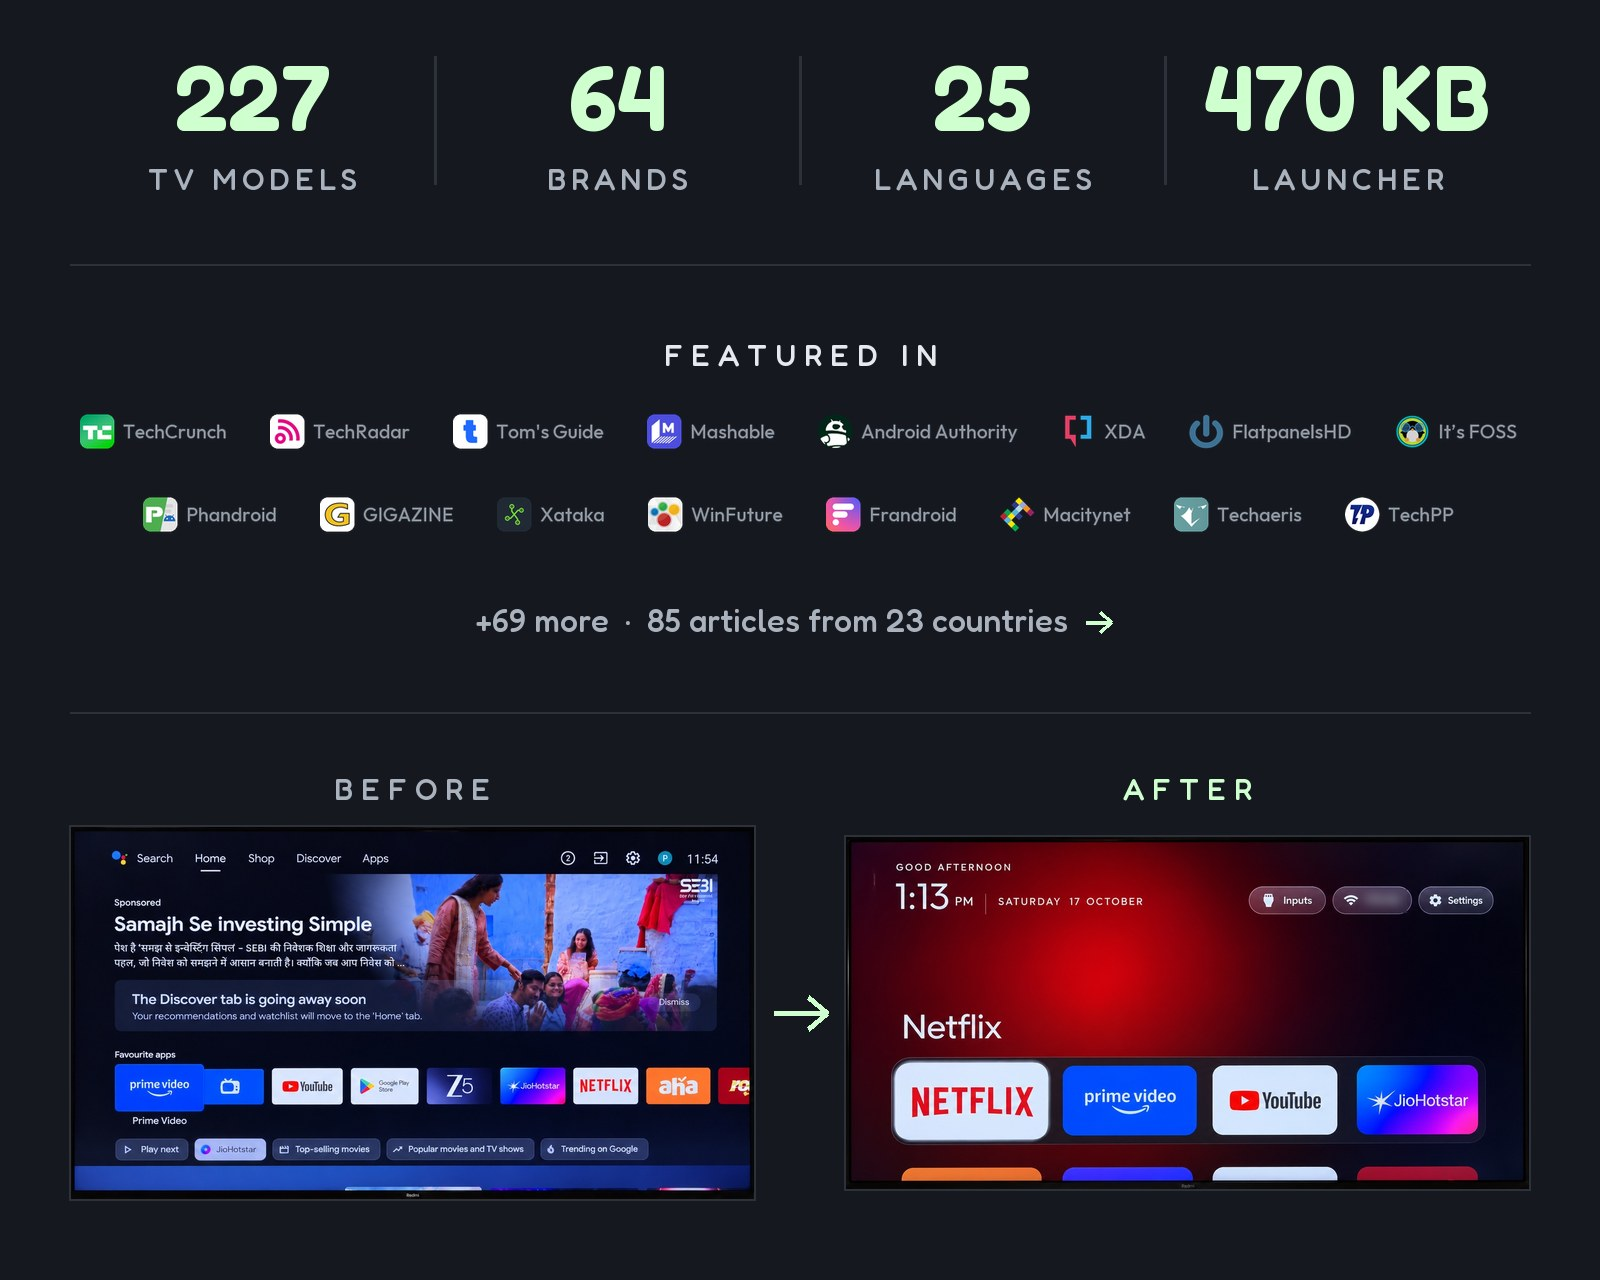
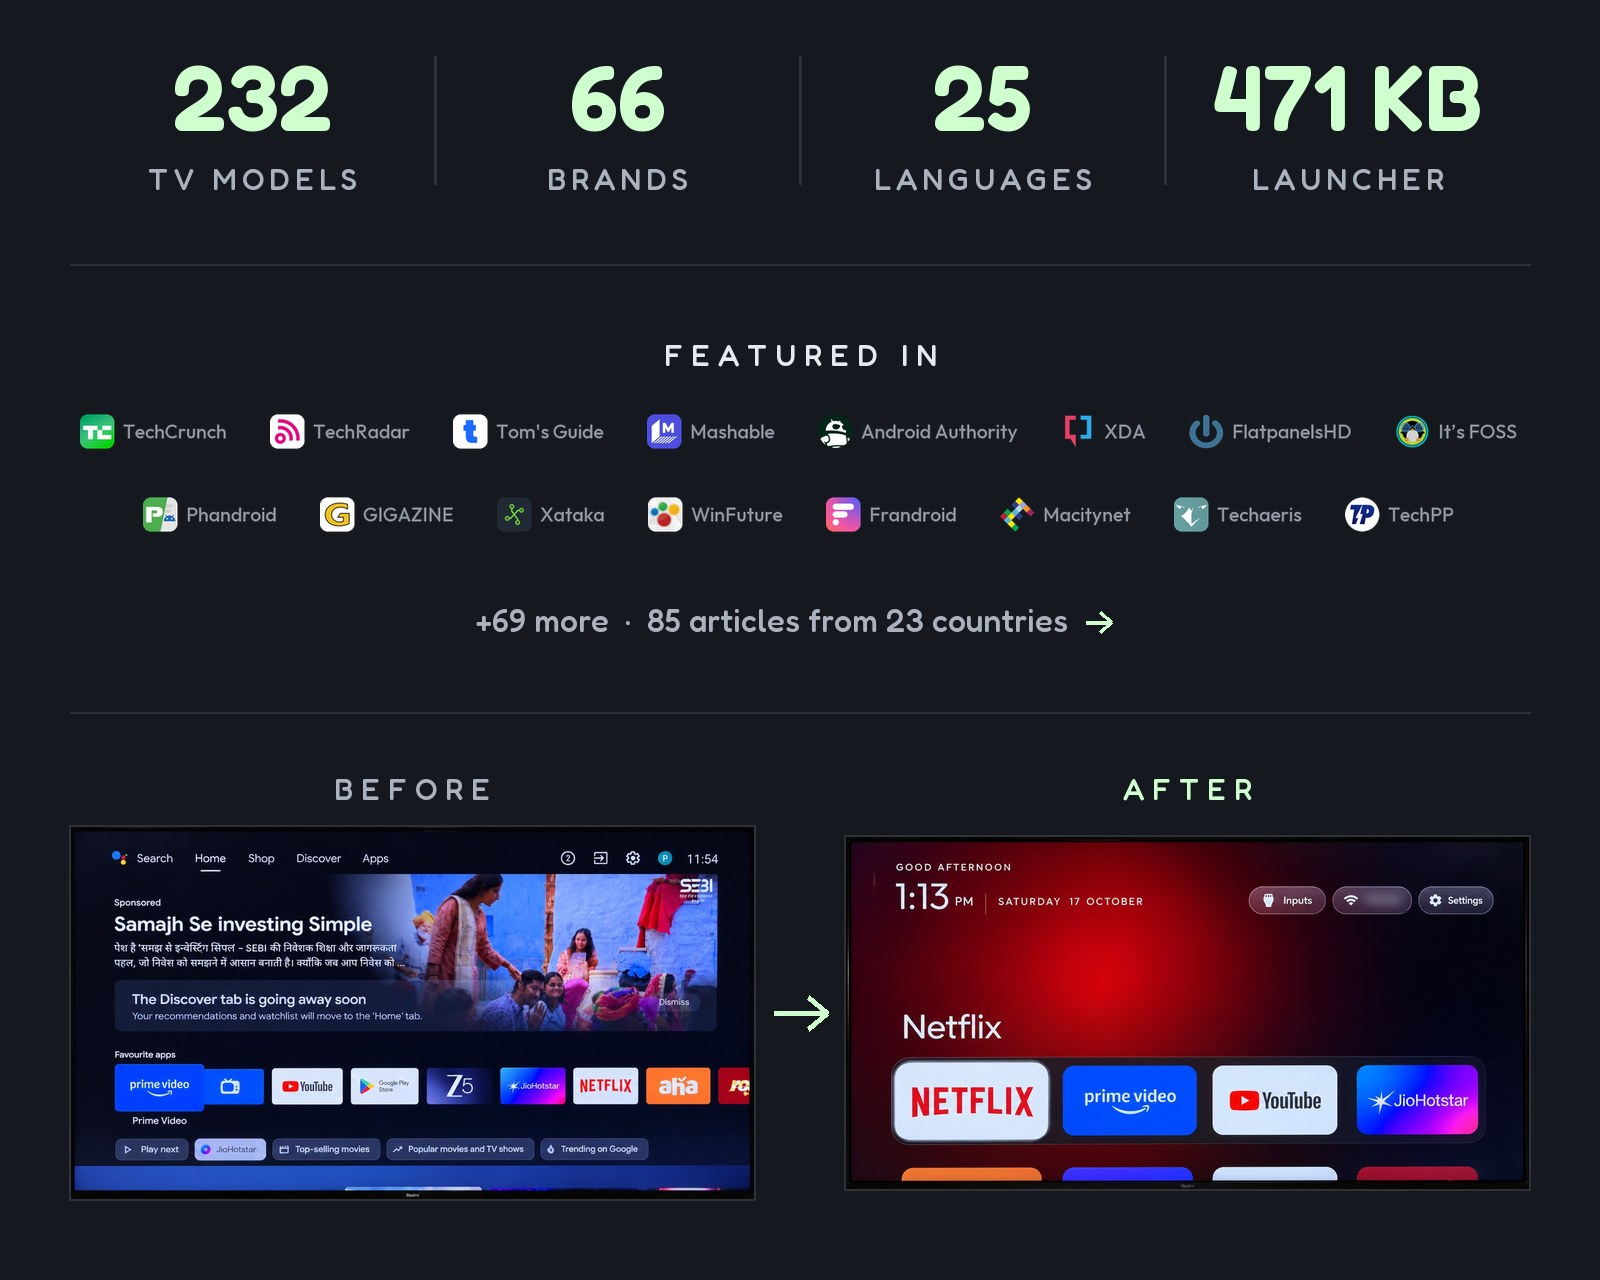
README: counts and card after Round Q (232 TV models, 66 brands, 471 KB launcher)
New brand: Grundig.

Changed region(s): [[0.75, 0.0312, 0.9375, 0.125], [0.125, 0.0625, 0.2188, 0.125], [0.375, 0.0312, 0.4375, 0.125]]

diff --git a/tools/readme_stats.py b/tools/readme_stats.py
@@ -5,7 +5,7 @@ and rebuild the card with tools/readme_card.py. Fredoka is the variable TTF from
 import sys
 from PIL import Image, ImageDraw, ImageFont
 FONT, OUT = sys.argv[1], sys.argv[2]
-STATS = [("227", "TV MODELS"), ("64", "BRANDS"), ("25", "LANGUAGES"), ("470 KB", "LAUNCHER")]
+STATS = [("232", "TV MODELS"), ("66", "BRANDS"), ("25", "LANGUAGES"), ("471 KB", "LAUNCHER")]
 W, H = 1600, 240
 img = Image.new("RGB", (W, H), "#15181e"); d = ImageDraw.Draw(img)
 def f(size, wt):

diff --git a/README.md b/README.md
@@ -18,7 +18,7 @@
 </p>
 
 <p align="center">
-  <a href="docs/PRESS.md"><img src="docs/card.jpg" alt="227 TV models · 64 brands · 25 languages · 470 KB launcher. Featured in TechCrunch, TechRadar, Tom's Guide, Mashable, Android Authority, XDA, FlatpanelsHD, It's FOSS, Phandroid, GIGAZINE, Xataka, WinFuture, Frandroid, Macitynet, Techaeris, TechPP and 69 more: 85 articles from 23 countries. Before: stock Google TV home with a sponsored ad. After: the Clean Your TV launcher." width="800"></a>
+  <a href="docs/PRESS.md"><img src="docs/card.jpg" alt="232 TV models · 66 brands · 25 languages · 471 KB launcher. Featured in TechCrunch, TechRadar, Tom's Guide, Mashable, Android Authority, XDA, FlatpanelsHD, It's FOSS, Phandroid, GIGAZINE, Xataka, WinFuture, Frandroid, Macitynet, Techaeris, TechPP and 69 more: 85 articles from 23 countries. Before: stock Google TV home with a sponsored ad. After: the Clean Your TV launcher." width="800"></a>
 </p>
 
 **The viral tweet:** [x.com/gathint/status/2111379569030939102](https://x.com/gathint/status/2111379569030939102)
@@ -102,11 +102,11 @@ Anything running **Android TV** or **Google TV**.
 
 Tested lists from contributors, one folder per model in [`examples/`](examples/):
 
-**TCL** 55 · **Xiaomi** 27 · **Sony** 26 · **Philips** 12 · **Hisense** 9 · **Skyworth** 9 · **Amazon Fire TV** 7 ·
+**TCL** 55 · **Sony** 28 · **Xiaomi** 27 · **Philips** 12 · **Hisense** 9 · **Skyworth** 9 · **Amazon Fire TV** 7 ·
 **Thomson** 4 · **BenQ** 3 · **Google** 3 · **Panasonic** 3 · **CHiQ** 2 · **FFalcon** 2 · **Haier** 2 · **Hitachi** 2 ·
 **Kalley** 2 · **Nokia** 2 · **NVIDIA Shield** 2 · **OnePlus** 2 · **onn** 2 · **Redmi** 2 · **Toshiba** 2 · **Vu** 2 ·
-AiPro2K · AIWA · Artel · Caxium · Cecotec · Challenger · Compac · Dialog · EKO · Freebox · Insignia Fire TV · JVC ·
-Karbonn · Kogan · Motorola · MTC · Noblex · OK. · PEAQ · Polytron · PRISM+ · RCA · Sankey · SANYO · SHARP ·
+AiPro2K · AIWA · Artel · Caxium · Cecotec · Challenger · Compac · Dialog · EKO · Freebox · Grundig · Insignia Fire TV ·
+JVC · Karbonn · Kogan · Motorola · MTC · Noblex · OK. · PEAQ · Polytron · PRISM+ · RCA · Sankey · SANYO · SHARP ·
 Super General · Tele System · Tornado · Turkcell · Verizon · Vidda · Vision ·
 Anker Nebula, BYINTEK, Epson, Formovie, Gadnic, JMGO, Portronics, Stellamore, Wanbo and XGIMI projectors
 
@@ -385,7 +385,7 @@ tools/theme.sh themes/aurora                                 # push a theme; --r
 | [`tools/trace.py`](tools/trace.py), [`trace_report.py`](tools/trace_report.py) | Records Perfetto traces of the launcher (return to Home, cold start, D-pad) and reports where its time goes, per run and before against after. Optional: needs [`requirements-perf.txt`](tools/requirements-perf.txt). [Guide](tools/trace.md). |
 | [`tools/flamechart.py`](tools/flamechart.py) | Draws a before/after flame chart from those traces, for a pull request: one lane per thread on a shared time scale, the work a change targets in magenta with its total. Optional, like the trace tools. [Guide](tools/flamechart.md). |
 | [`tools/race_calendar.py`](tools/race_calendar.py) | Writes this season's F1 calendar into a theme for race-weekend mode, from the free Jolpica API. |
-| [`launcher/build-and-install.sh`](launcher/build-and-install.sh) | Builds a shrunk release (about 470 KB), installs it, switches Home, and rolls back if Home does not land on it. |
+| [`launcher/build-and-install.sh`](launcher/build-and-install.sh) | Builds a shrunk release (about 471 KB), installs it, switches Home, and rolls back if Home does not land on it. |
 
 The scripts never leave the TV without a Home app: they only disable a stock launcher they recognise,
 and skip the Home app in a list until another launcher answers HOME. Details below.
@@ -456,7 +456,7 @@ apps), which is why the report names that loss per package instead of calling it
 
 ## The launcher
 
-A small native home screen for Android TV: **about 470 KB**, plain Java, built for TVs with 1 GB of RAM.
+A small native home screen for Android TV: **about 471 KB**, plain Java, built for TVs with 1 GB of RAM.
 No blur, no video, no network permission, no background services.
 
 The **TV** needs Android 8.0 (API 26) or newer: `minSdk` is a compile-time floor in

diff --git a/.github/maintainer/MAINTAINER.md b/.github/maintainer/MAINTAINER.md
@@ -1,7 +1,7 @@
 # How CleanYourTV PRs are reviewed
 
 CleanYourTV (Gathin23/cleanyourtv) is a prompt plus tools that debloat Android TV / Google TV / Fire TV over
-ADB and a tiny native launcher (`launcher/`, plain Java, ~470 KB, for 1 GB TVs). Contributors mostly add
+ADB and a tiny native launcher (`launcher/`, plain Java, ~471 KB, for 1 GB TVs). Contributors mostly add
 tested TV lists under `examples/<tv>/`, translations, docs, small launcher options, themes, add-ons and tools.
 
 ## The policy: a small core plus a well-indexed hub
